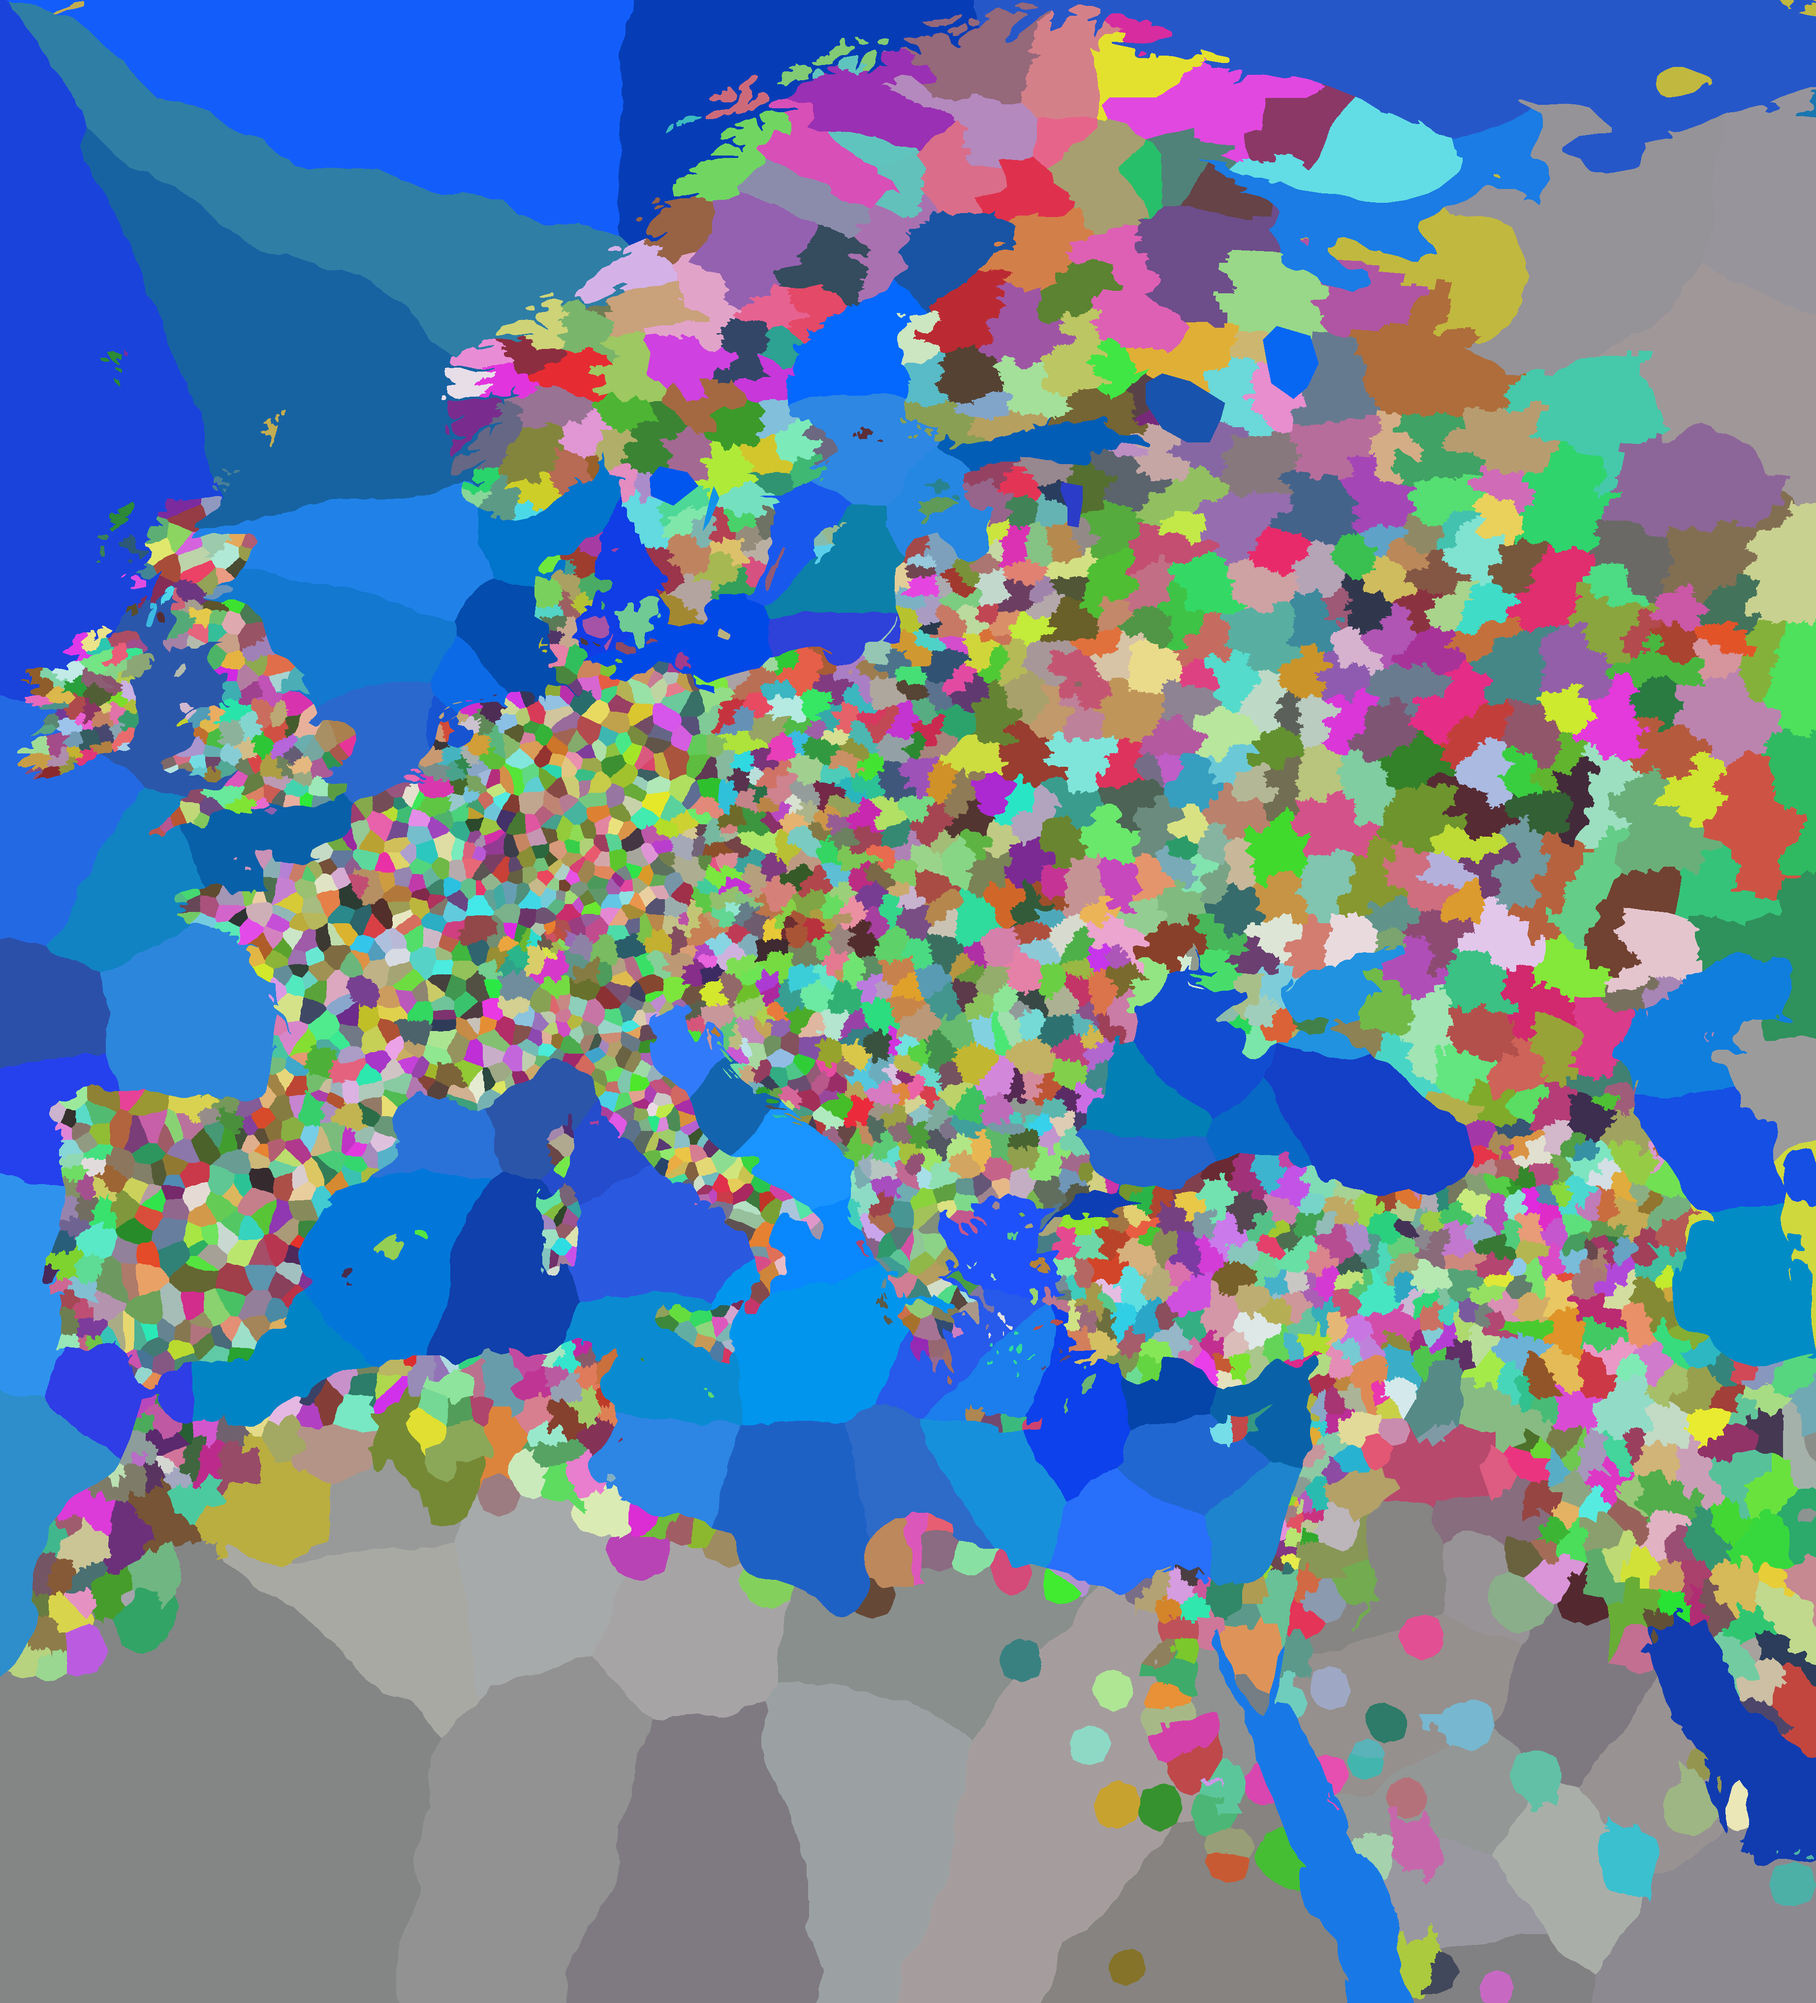
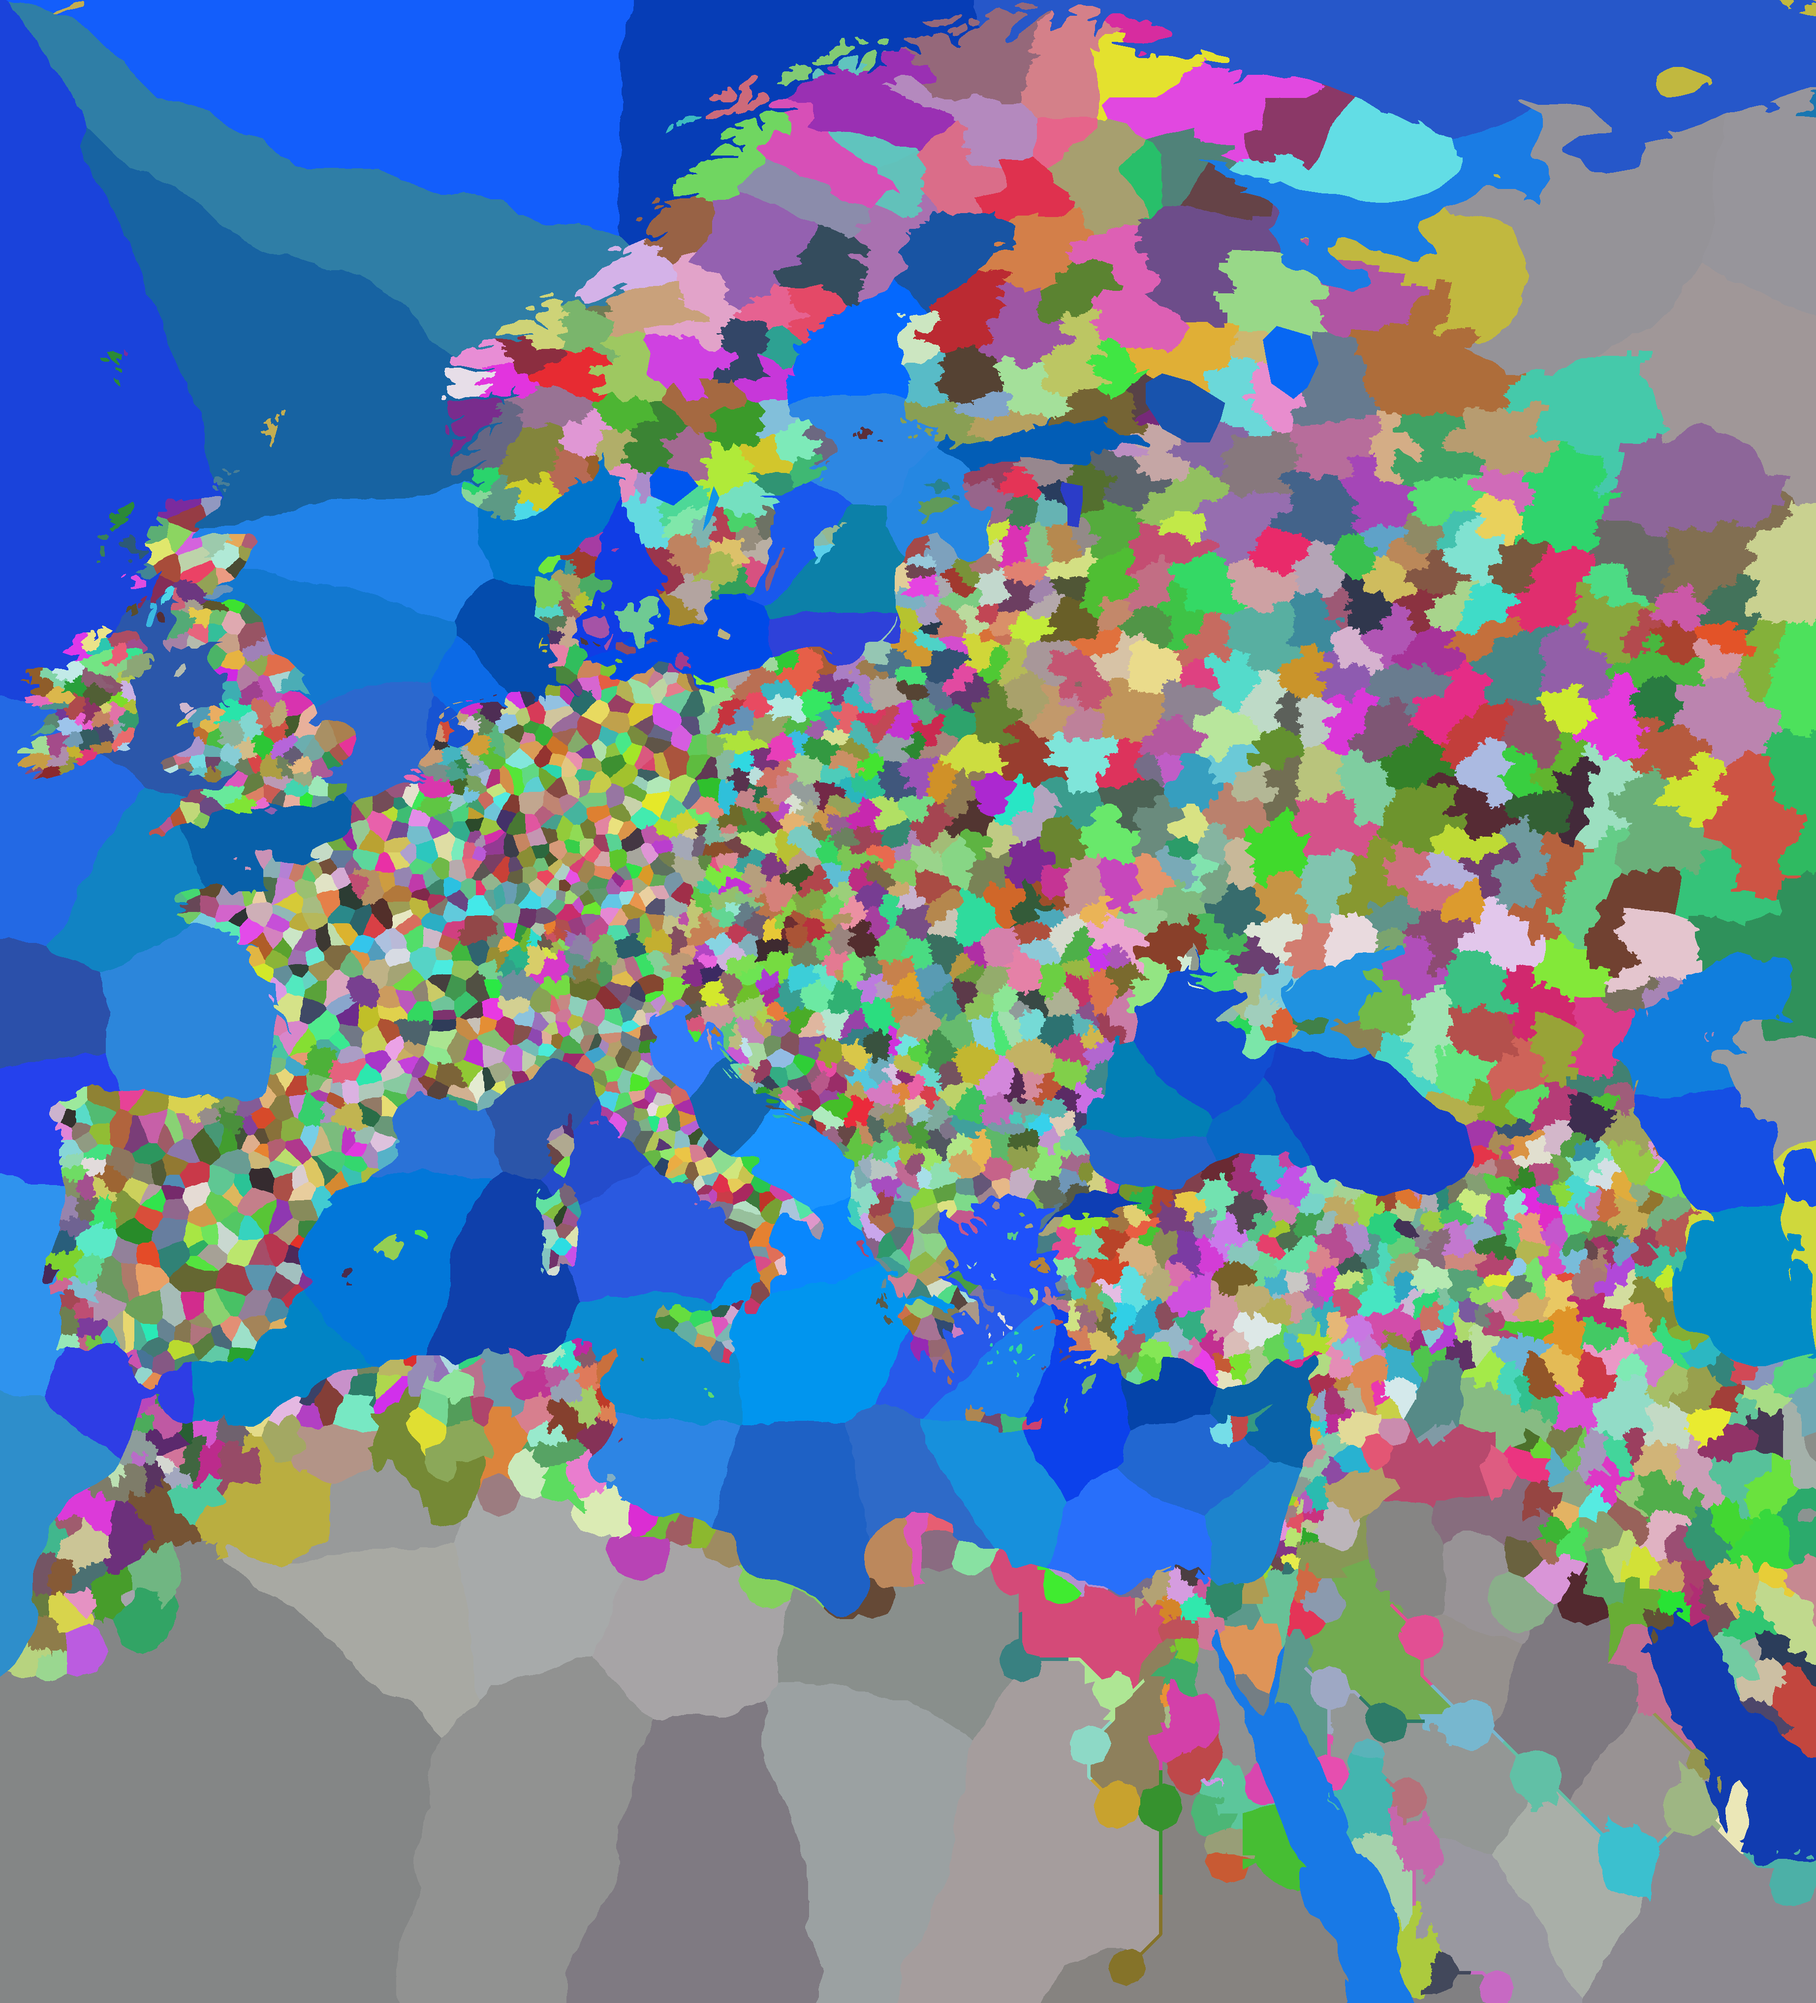
Land corridors join oases and desert coasts
Replace the caravan "strait" links with thin strips of settled land
(data/map/corridors.yaml) that follow the shortest land path between two
provinces. Wasteland cannot enter them, settled provinces may grow along
them past their radius, and district snapping leaves them alone. The
Egyptian oases, the Libyan coast round the Gulf of Sidra, the Hejaz and
the Najd oases are now all connected by land; only true islands remain
separate.

diff --git a/tools/seed-map.ts b/tools/seed-map.ts
@@ -177,14 +177,83 @@ for (let y = 0; y < H; y++) {
   }
 }
 
-const BUCKETS = 64; // larger than the biggest single step cost (16 * 1.4 * WASTELAND_SLOWDOWN + 1)
-const buckets: number[][] = Array.from({ length: BUCKETS }, () => []);
-for (const p of seedQueue) buckets[0]!.push(p);
-let pending = seedQueue.length;
 const DIRS: [number, number, boolean][] = [
   [1, 0, false], [-1, 0, false], [0, 1, false], [0, -1, false],
   [1, 1, true], [1, -1, true], [-1, 1, true], [-1, -1, true],
 ];
+// Corridors (data/map/corridors.yaml): thin strips of settled land between two seeds, e.g. a caravan
+// route between oases or a coastal road along a desert shore. Each strip follows the shortest path over
+// land (so it hugs coasts instead of crossing bays), optionally through waypoints. Wasteland may not enter
+// a strip and settled provinces may follow it past their radius, so the two ends grow towards each other.
+const CORRIDOR_HALF_WIDTH_PX = 3;
+const CORRIDOR_SEARCH_MARGIN_PX = 150;
+const corridor = new Uint8Array(W * H);
+{
+  const seedAt = new Map<string, number>();
+  for (const d of defs) {
+    const s = seedPixel.get(d.id);
+    if (s) seedAt.set(d.key, s[1] * W + s[0]);
+  }
+  const nearestLand = (lat: number, lon: number): number => {
+    const [px, py] = lonLatToPixel(projection, lon, lat);
+    const p = snap(px, py, 1);
+    if (p === null) throw new Error(`corridor waypoint ${lat},${lon}: no land nearby`);
+    return p;
+  };
+  /** Shortest 8-connected path over land from a to b, searched inside their bounding box plus a margin. */
+  const landPath = (a: number, b: number): number[] => {
+    const ax = a % W, ay = (a - ax) / W, bx = b % W, by = (b - bx) / W;
+    const x0 = Math.max(0, Math.min(ax, bx) - CORRIDOR_SEARCH_MARGIN_PX);
+    const x1 = Math.min(W - 1, Math.max(ax, bx) + CORRIDOR_SEARCH_MARGIN_PX);
+    const y0 = Math.max(0, Math.min(ay, by) - CORRIDOR_SEARCH_MARGIN_PX);
+    const y1 = Math.min(H - 1, Math.max(ay, by) + CORRIDOR_SEARCH_MARGIN_PX);
+    const prev = new Map<number, number>([[a, -1]]);
+    const queue = [a];
+    for (let i = 0; i < queue.length && !prev.has(b); i++) {
+      const p = queue[i]!;
+      const x = p % W, y = (p - x) / W;
+      for (const [dx, dy] of DIRS) {
+        const nx = x + dx, ny = y + dy;
+        if (nx < x0 || ny < y0 || nx > x1 || ny > y1) continue;
+        const q = ny * W + nx;
+        if (!land[q] || prev.has(q)) continue;
+        prev.set(q, p);
+        queue.push(q);
+      }
+    }
+    if (!prev.has(b)) return [];
+    const path: number[] = [];
+    for (let p = b; p !== -1; p = prev.get(p)!) path.push(p);
+    return path;
+  };
+  // Each entry is [keyA, keyB] or [keyA, keyB, [[lat, lon], ...]] with waypoints the path must pass.
+  const pairs = (parse(readFileSync('data/map/corridors.yaml', 'utf8')) ?? []) as [string, string, [number, number][]?][];
+  for (const [a, b, via = []] of pairs) {
+    const pa = seedAt.get(a);
+    const pb = seedAt.get(b);
+    if (pa === undefined || pb === undefined) throw new Error(`corridor ${a} - ${b}: unknown seed key`);
+    const stops = [pa, ...via.map(([lat, lon]) => nearestLand(lat, lon)), pb];
+    for (let s = 0; s + 1 < stops.length; s++) {
+      const path = landPath(stops[s]!, stops[s + 1]!);
+      if (!path.length) throw new Error(`corridor ${a} - ${b}: no land path`);
+      for (const p of path) {
+        const cx = p % W, cy = (p - cx) / W;
+        for (let dy = -CORRIDOR_HALF_WIDTH_PX; dy <= CORRIDOR_HALF_WIDTH_PX; dy++) {
+          for (let dx = -CORRIDOR_HALF_WIDTH_PX; dx <= CORRIDOR_HALF_WIDTH_PX; dx++) {
+            if (dx * dx + dy * dy > CORRIDOR_HALF_WIDTH_PX ** 2) continue;
+            const x = cx + dx, y = cy + dy;
+            if (x >= 0 && y >= 0 && x < W && y < H && land[y * W + x]) corridor[y * W + x] = 1;
+          }
+        }
+      }
+    }
+  }
+}
+
+const BUCKETS = 64; // larger than the biggest single step cost (16 * 1.4 * WASTELAND_SLOWDOWN + 1)
+const buckets: number[][] = Array.from({ length: BUCKETS }, () => []);
+for (const p of seedQueue) buckets[0]!.push(p);
+let pending = seedQueue.length;
 for (let d = 0; pending > 0; d++) {
   const bucket = buckets[d % BUCKETS]!;
   while (bucket.length) {
@@ -206,7 +275,8 @@ for (let d = 0; pending > 0; d++) {
       const base = diagonal ? Math.round(terrainCost[q]! * 1.4) : terrainCost[q]!;
       const step = slow[id] ? base * WASTELAND_SLOWDOWN : base;
       const nd = d + step;
-      if (nd >= dist[q]! || nd > maxCost[id]!) continue;
+      if (corridor[q] && slow[id]) continue;
+      if (nd >= dist[q]! || (nd > maxCost[id]! && !corridor[q])) continue;
       dist[q] = nd;
       owner[q] = id;
       buckets[nd % BUCKETS]!.push(q);
@@ -328,7 +398,7 @@ if (existsSync(BOUNDARY_DIR)) {
   }
   for (let p = 0; p < W * H; p++) {
     const t = target[district[p]!]!;
-    if (t && land[p]) owner[p] = t;
+    if (t && land[p] && !corridor[p]) owner[p] = t; // corridors keep the province that grew along them
   }
   console.log(`Snapped ${snappedDistricts} of ${districtCount} districts to provinces.`);
 }

diff --git a/docs/DESIGN.md b/docs/DESIGN.md
@@ -71,7 +71,8 @@ With a colour bitmap of 4096×3342 px (~13.7M pixels), Canvas 2D would recolour 
 - `data/map/provinces.png`: RGB, one colour per province, no anti-aliasing.
 - `data/map/definitions.yaml`: `color → id, key, name, kind (land | sea | wasteland | lake)`.
 - `data/map/water.yaml`: historical water carved out of the modern coastline (the Zuiderzee before its reclamation) and large lakes the coastline treats as land (Ladoga, Onega, Peipus, Vänern, Vättern), which become named lake provinces.
-- `data/map/straits.yaml`: extra adjacencies: straits and the caravan routes linking the Egyptian oases.
+- `data/map/straits.yaml`: extra adjacencies across water (straits).
+- `data/map/corridors.yaml`: thin strips of settled land joining provinces across desert (oasis caravan routes, the Libyan and Arabian coast roads, the Hejaz and Najd chains). Each follows the shortest path over land between the two seeds; wasteland cannot enter it, settled provinces may follow it past their radius, and district snapping leaves it alone. Every mainland province is reachable by land.
 - `data/scenario/1302.yaml`: `enabled: false` switches the realms off while the province map is under construction (provinces-only view, no owners required); the realm data stays in the file. Realms (rank, government, colour, capital, overlord, scripted flag) with the provinces each owns, start-date occupations and explicitly unclaimed land. `tools/build-data` validates it against the built map (every land province owned exactly once or listed as unclaimed, capitals inside the realm, no loops of overlords, no water owned, warnings for look-alike neighbour colours) and writes `public/generated/scenario.json`.
 - `data/map/projection.yaml`: equirectangular, standard parallel 45°N, bounds; converts city lat/lon to pixels.
 - `tools/build-map` (runs in `npm run build`, also on Vercel): checks every pixel colour is defined, warns on non-contiguous and tiny provinces; computes pixel count, bbox, centroid, coastal flag, adjacency with shared border length; writes `public/generated/province-ids.png` (ID in R+G, 16-bit) and `public/generated/map.json`.
